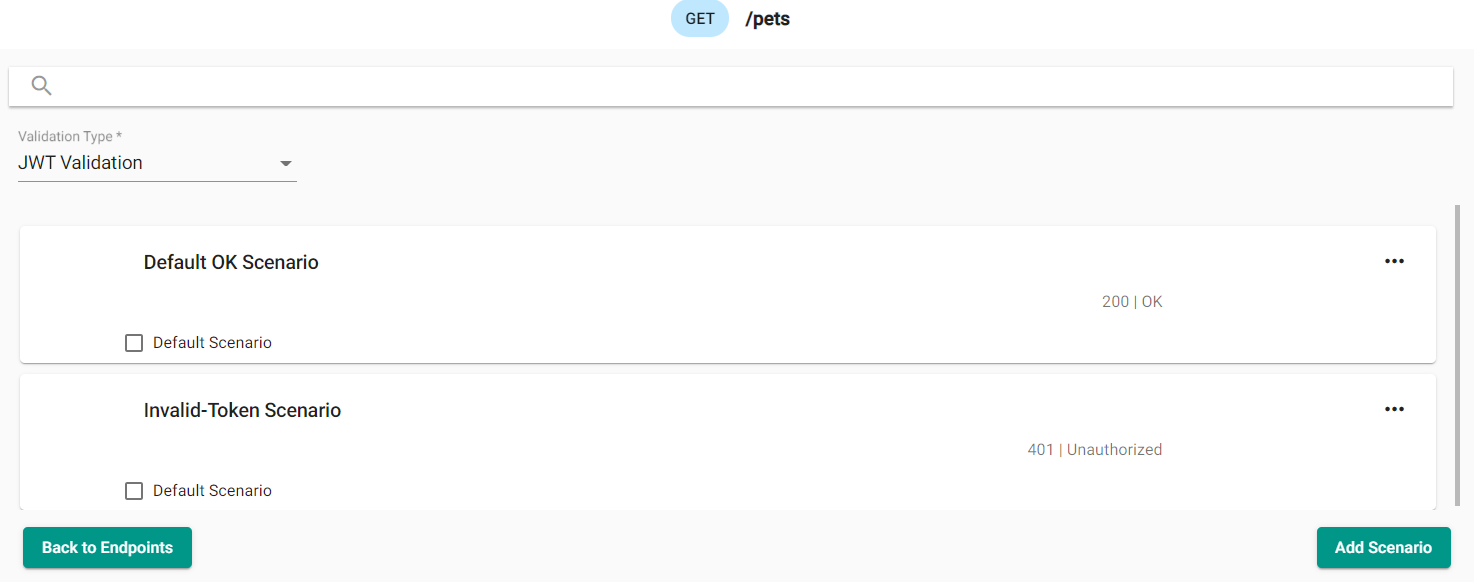
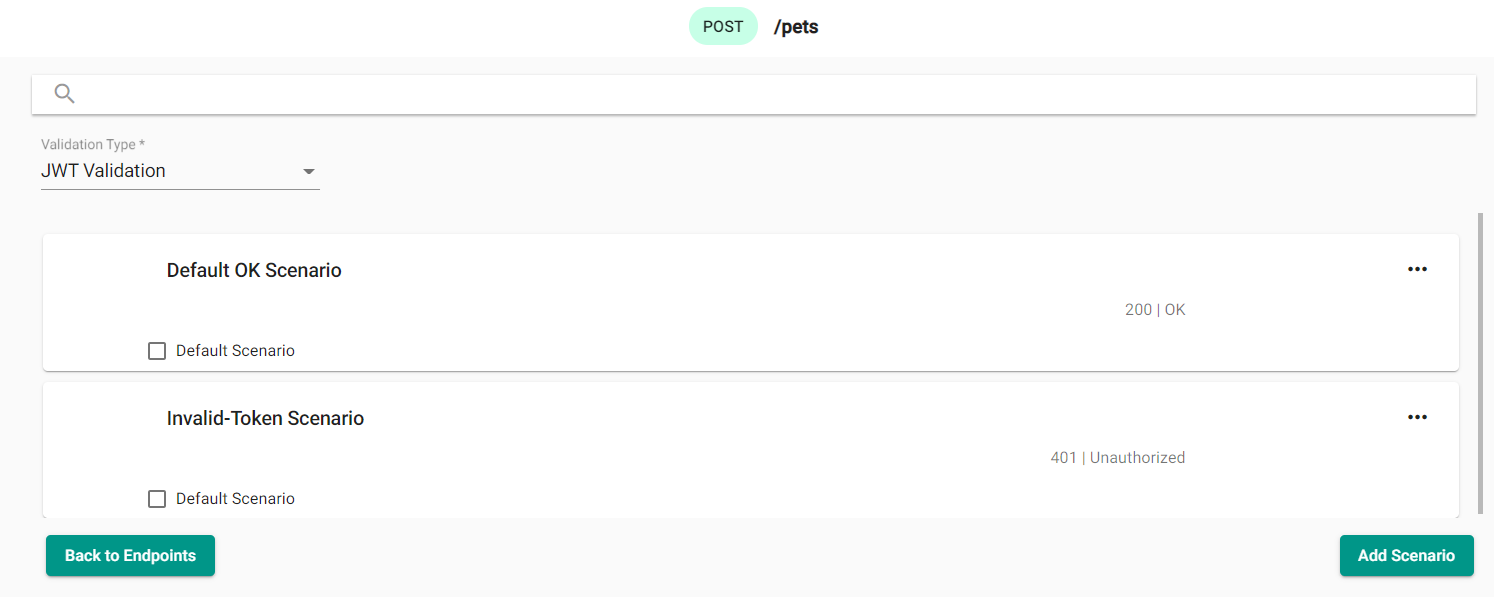
images added, description edited

diff --git a/_pages/docs/request-match-rules/token-payload-rules.md b/_pages/docs/request-match-rules/token-payload-rules.md
@@ -23,7 +23,7 @@ When creating a new Mock Definition check the Token Validation checkbox. Once a 
 
 ![Endpoint Overview](../../../assets/images/orbital-ui/endpoint-overview.png)
 
-Select the endpoint to add a scenario, or update an existing one. The following image shows "Default OK Scenario" and "Invalid-Token Scenario". Select "JWT Validation" from the dropdown menu. Let's add an "Token Payload Match Rule" scenario for `/pets`.
+Select the endpoint to add a scenario, or update an existing one. The following image shows "Default OK Scenario" and "Invalid-Token Scenario" added by default when Token Validation checkbox is selected. Select "JWT Validation" from the dropdown menu. Let's add an "Token Payload Match Rule" scenario for POST `/pets` endpoint.
 
 ![Scenario Overview](../../../assets/images/orbital-ui/scenario-overview-token.png)
 
